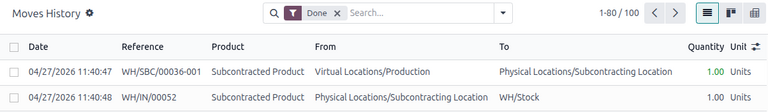
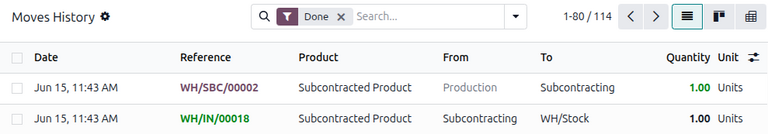
[IMP] MRP: Basic subcontracting update 19.0
closes odoo/documentation#18539

X-original-commit: 2521a916584fd71ad4fb43231583e116cfb5205d

diff --git a/content/applications/inventory_and_mrp/manufacturing/subcontracting/subcontracting_basic.rst b/content/applications/inventory_and_mrp/manufacturing/subcontracting/subcontracting_basic.rst
@@ -9,20 +9,25 @@ Basic subcontracting
 
 In basic subcontracting, a company's product is produced entirely by a subcontractor. The product is
 first purchased from the subcontractor, who acquires their own components, manufactures the final
-product, then delivers the final product to the contracting company's warehouse.
+product, then delivers the final product to the company's warehouse.
 
-The following documentation covers how to configure a subcontracted product and trigger the
+The following document covers how to configure a subcontracted product and trigger the
 subcontracting process.
+
+.. note::
+   This document uses the term *company* to refer to the internal company requiring subcontracted
+   goods and the term *subcontractor* to refer to the external vendor handling the outsourced
+   production of the subcontracted goods.
 
 Configuration
 =============
 
-To use subcontracting, contractors must first configure products with a :ref:`vendor pricelist
-<purchase/products/pricelist>` as well as a subcontracting-type |BoM|.
+To use subcontracting, a company must first configure products with a :ref:`vendor pricelist
+<purchase/products/pricelist>` as well as a :ref:`subcontracting-type BoM
+<manufacturing/workflows/subcontracting_basic/bom-config>`.
 
-The pricelist allows the contracting company to purchase the product from the vendor (subcontractor)
-through a |PO|, while the |BoM| allows the product to be manufactured externally by the
-subcontractor.
+The pricelist allows the company to purchase the product from the vendor (subcontractor) through a
+|PO|, while the |BoM| allows the product to be manufactured externally by the subcontractor.
 
 .. _manufacturing/workflows/subcontracting_basic/product-config:
 
@@ -32,20 +37,20 @@ Configure product vendor
 To configure a product's vendor for basic subcontracting, navigate to :menuselection:`Inventory app
 --> Products --> Products`. Then, select a product or create a new one.
 
-On the product form, click the :guilabel:`Purchase` tab and add the product's subcontractor as a
-vendor by clicking :guilabel:`Add a line`. Select the subcontractor in the :guilabel:`Vendor`
-drop-down menu.
+On the product form, click the *Purchase* tab and add the product's subcontractor as a vendor by
+clicking :guilabel:`Add a line`. Select the subcontractor using the :guilabel:`Vendor` drop-down
+menu.
 
-Then, enter the price of the product in the :guilabel:`Price` field.
+Then, enter the price of the product in the :guilabel:`Unit Price` field.
 
-Finally, set a :doc:`lead time <../../inventory/warehouses_storage/replenishment/lead_times>` for
-the product in the :guilabel:`Delivery Lead Time` field to specify the number of days for the
-subcontractor to produce and deliver the final product.
+Finally, set a :doc:`Lead Time <../../inventory/warehouses_storage/replenishment/lead_times>` for
+the product in the corresponding field to specify the number of days for the subcontractor to
+produce and deliver the final product.
 
 .. note::
-   Since contractors are only responsible for purchasing and receiving the final product, they do
-   not need to additionally configure manufacturing lead times on a |BoM|. Instead, provide only a
-   single *Delivery Lead Time* on the vendor pricelist that factors in both the subcontractor's
+   Since companies are only responsible for purchasing and receiving the final product, they do not
+   need to additionally configure manufacturing lead times on a |BoM|. Instead, provide only a
+   single :guilabel:`Lead Time` on the vendor pricelist that factors in both the subcontractor's
    manufacturing and delivery time.
 
 .. _manufacturing/workflows/subcontracting_basic/bom-config:
@@ -55,7 +60,7 @@ Configure BoM
 
 After specifying the vendor, configure a subcontracting-type |BoM| for the product. Click the
 :guilabel:`Bill of Materials` smart button on the product form. Then, select the desired |BoM| or
-create a new one.
+:ref:`create a new one <manufacturing/basic_setup/bom-setup>`.
 
 .. tip::
    Alternatively, navigate to :menuselection:`Manufacturing app --> Products --> Bills of
@@ -65,7 +70,7 @@ In the :guilabel:`BoM Type` field, select :guilabel:`Subcontracting`. In the res
 :guilabel:`Subcontractors` field, add one or more subcontractors.
 
 Because the components and manufacturing are both handled by the subcontractor, there is no need to
-list any components in the :guilabel:`Components` tab of the |BoM|.
+list any components in the *Components* tab of the |BoM|.
 
 .. image:: subcontracting_basic/basic-sbc-bom.png
    :alt: Bill of Materials configuration for subcontracting in Odoo.
@@ -75,19 +80,19 @@ list any components in the :guilabel:`Components` tab of the |BoM|.
 Basic subcontracting workflow
 =============================
 
-.. image:: subcontracting_basic/subcontracting-flow.png
-   :alt: Basic subcontracting workflow diagram in Odoo.
-
 The basic subcontracting workflow begins by :ref:`creating a PO
 <subcontracting_basic/workflow/create_po>` to purchase the product from the subcontractor (1).
 
-The contractor (YourCompany) then confirms the |PO|, which creates a receipt to transfer the final product
-(2). The subcontractor manufactures the product and delivers it back to the contractor when done.
+The company then confirms the |PO|, which creates a receipt to transfer the final product (2). The
+subcontractor manufactures the product and delivers it back to the company when done.
 
-Once the product has been produced and received, the contractor :ref:`validates the receipt
+Once the product has been produced and received, the company :ref:`validates the receipt
 <subcontracting_basic/workflow/validate_receipt>` (5) to trigger :ref:`inventory moves
 <subcontracting_basic/workflow/track-inventory>` from the subcontractor to the company's stock (3,
 4).
+
+.. image:: subcontracting_basic/basic-subcontracting.png
+   :alt: Basic subcontracting workflow diagram in Odoo.
 
 .. _subcontracting_basic/workflow/create_po:
 
@@ -103,7 +108,7 @@ Select the subcontracted product in the :guilabel:`Product` field, and enter the
 :guilabel:`Quantity` field.
 
 After adding the product, the :guilabel:`Expected Arrival` field is updated with the finished
-product's expected delivery date, as configured earlier with the vendor's *Delivery Lead Time*.
+product's expected delivery date, as configured earlier with the vendor's *Lead Time*.
 
 Finally, click :guilabel:`Confirm Order` to confirm the |PO|. A receipt is automatically created,
 and a :guilabel:`Receipt` smart button appears at the top of the form.
@@ -114,11 +119,11 @@ Process receipt
 ---------------
 
 After the order is confirmed, the subcontractor manufactures the product and delivers the finished
-good back to the contracting company.
+good back to the company.
 
-To receive the finished product from the subcontractor, click the :guilabel:`Receive Products`
-button on the |PO|, or click the :guilabel:`Receipt` smart button at the top of the page. Then,
-click :guilabel:`Validate` to enter the incoming shipment into inventory.
+To receive the finished product from the subcontractor, click the :guilabel:`Receive` button on the
+|PO|, or click the :guilabel:`Receipt` smart button at the top of the page. Then, click
+:guilabel:`Validate` to enter the incoming shipment into inventory.
 
 .. note::
    If :doc:`multi-step inventory flows <../../inventory/shipping_receiving/daily_operations>` are
@@ -130,18 +135,18 @@ Track inventory moves
 ---------------------
 
 After validating a receipt, Odoo automatically generates inventory moves to track the movement of
-subcontracted products between locations. To view these inventory moves, navigate to
-:menuselection:`Inventory app --> Reporting --> Moves History`.
+subcontracted products between :doc:`locations
+<../../inventory/warehouses_storage/inventory_management/use_locations>`. To view these inventory
+moves, navigate to :menuselection:`Inventory app --> Reporting --> Moves History`.
 
 To track inventory movement in subcontracting, Odoo sends any product components to a dedicated
-*Subcontracting Location*. A :ref:`virtual location <inventory/warehouses_storage/location-type>`
-called *Production* then consumes the components and produces the finished good. Once produced, the
-good then moves back to the *Subcontracting Location* before finally entering the contractor's stock
-when the receipt is validated.
+location called *Subcontracting*. Another location called *Production* then consumes the components
+and produces the finished good. Once produced, the good then moves back to the *Subcontracting*
+location before finally entering the company's stock when the receipt is validated.
 
 .. image:: subcontracting_basic/basic-sbc-moves.png
    :alt: Moves History page to see subcontracting moves in Odoo.
 
 .. note::
    Because no components are sent in basic subcontracting, there is no movement from the
-   *Subcontracting Location* to the *Production* location.
+   *Subcontracting* location to the *Production* location.